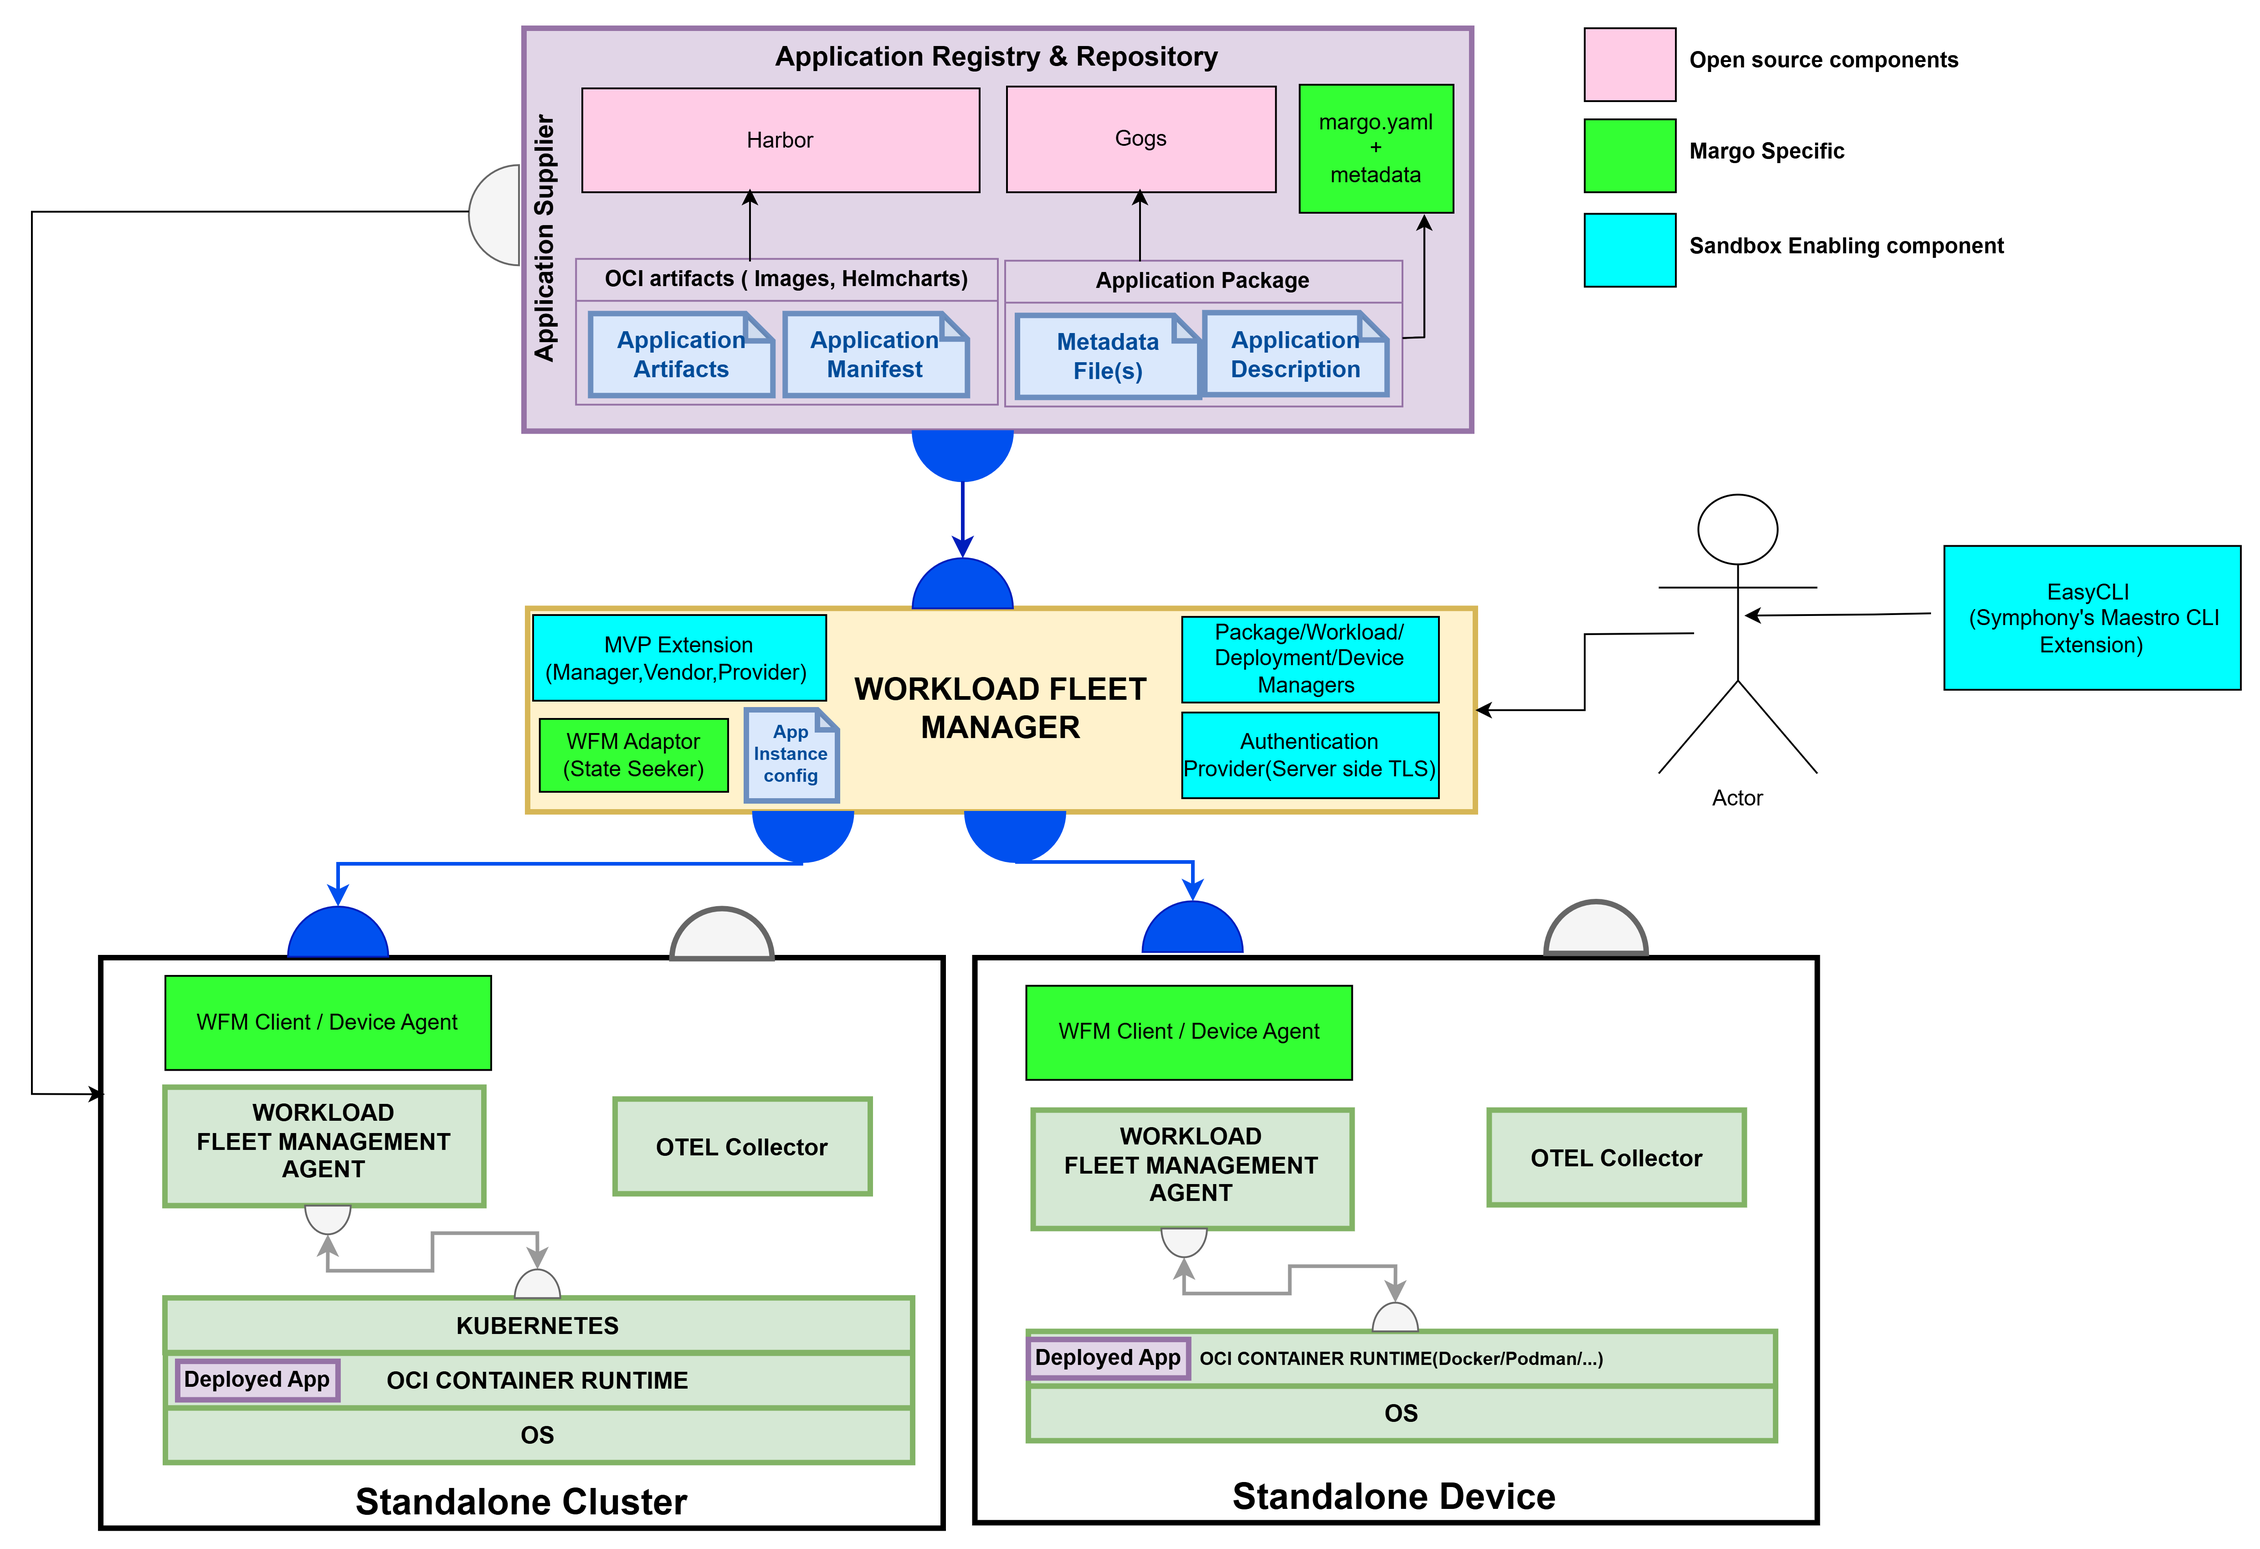
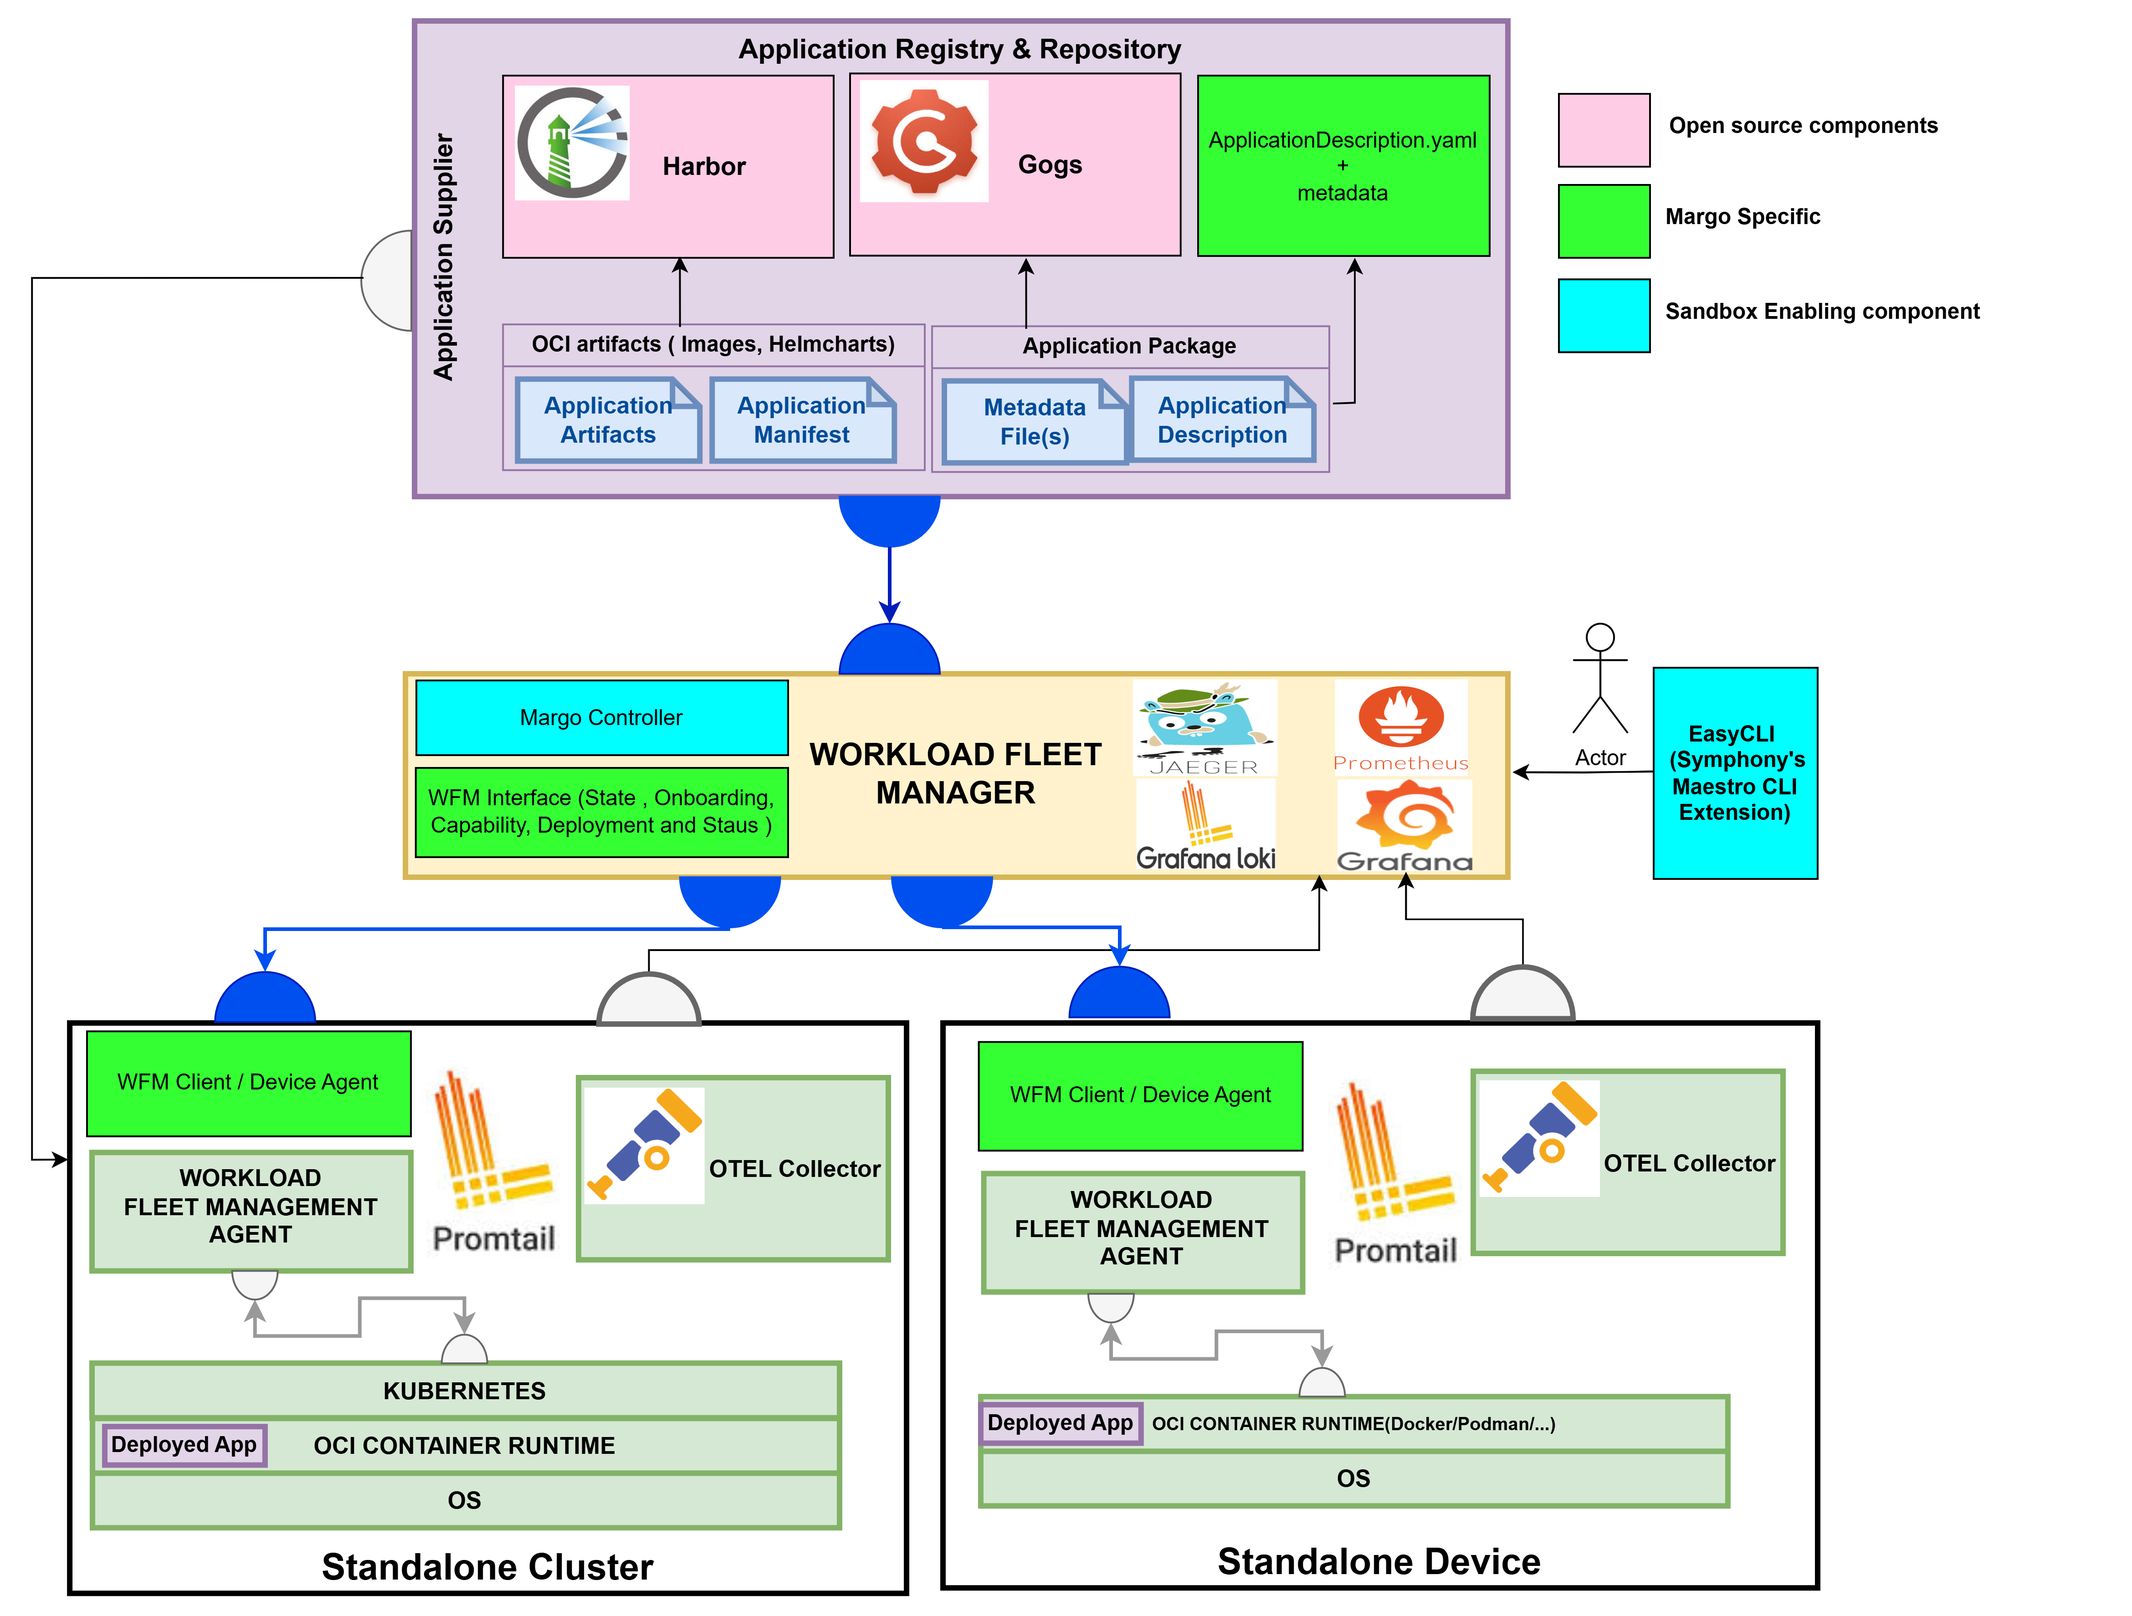
added TOC and modifed overlay architecture

diff --git a/README.md b/README.md
@@ -1,26 +1,50 @@
 # MARGO Project Documentation
 
-## 📘 Introduction
-Welcome to the MARGO project! The MARGO initiative defines mechanisms for interoperable orchestration at scale of edge applications/workloads and devices. It will deliver on the interoperability promise through an open standard, a reference implementation, and a comprehensive compliance testing toolkit.  MARGO unlocks barriers to innovation in complex multi-vendor environments and accelerates digital transformation for organizations of all sizes. More about MARGO [here](https://margo.org/).
+## Table of Contents
+- [📘 Introduction](#-introduction)
+- [🚀 Sandbox Quick Start](#-sandbox-quick-start)
+  - [🛠 Development Toolset](#-development-toolset)
+    - [🔧 How to Build](#-how-to-build)
+    - [🚚 How to Deploy](#-how-to-deploy)
+    - [▶ How to Run](#-how-to-run)
+- [🗂 Structure of the Repository](#-structure-of-the-repository)
+- [📦 3rd Party Components](#-3rd-party-components)
+- [🧠 Design and Mapping to MARGO Architecture](#-design-and-mapping-to-margo-architecture)
+  - [🎼 Symphony WFM](#-symphony-wfm)
+  - [📁 Repositories and Registry](#-repositories-and-registry)
+  - [📊 Telemetry and Monitoring](#-telemetry-and-monitoring)
+  - [🧩 MVP Pattern](#-mvp-pattern)
+- [🔐 HTTP/1.1 and API Security](#-http11-and-api-security)
+- [📝 Release Notes](#-release-notes)
+- [💬 Comments and Feedback](#-comments-and-feedback)
 
 ---
 
-## 🚀 Quick Start
-This section allows you to set up a 'Sandbox' environment for experimenting with the MARGO specifications and APIs. This includes instructions on the prerequisites, how to set up a build environment, creating a deployment on a set of virtual machines and running scenarios between the MARGO WFM and the Device-Agent using a simple CLI.  
+## 📘 Introduction
+Welcome to the MARGO project! The MARGO initiative defines mechanisms for interoperable orchestration at scale of edge applications/workloads and devices. It will deliver on the interoperability promise through an open standard, a reference implementation, and a comprehensive compliance testing toolkit. MARGO unlocks barriers to innovation in complex multi-vendor environments and accelerates digital transformation for organizations of all sizes. More about MARGO [here](https://margo.org/).
 
-### 🛠 Dev Toolset
-[Dev Toolset](./docs/dev-toolsets.md)  
+---
+
+## 🚀 Sandbox Quick Start
+This section allows you to set up a 'Sandbox' environment for experimenting with the MARGO specifications and APIs. This includes instructions on the prerequisites, how to set up a build environment, creating a deployment on a set of virtual machines and running scenarios between the MARGO WFM and the Device-Agent using a simple CLI.
+
+### 🛠 Development Toolset
+- [Development Toolset](./docs/dev-toolsets.md)
+
 #### 🔧 How to Build
-[Build Process](./docs/build.md)
+- [Build the Sandbox](./docs/build.md)
+
 #### 🚚 How to Deploy
-[Deployment](./docs/deploy.md)
+- [Deploy the Sandbox](./docs/deploy.md)
+
 #### ▶ How to Run
-[Running the Setup](./docs/run.md)
+- [Run the Sandbox](./docs/run.md)
 
 ---
 
 ## 🗂 Structure of the Repository
-The repository is divided into three main parts. More details on [Repo Structure](./docs/repo-structure.md):
+The repository is divided into three main parts. More details on [Repository Structure](./docs/repo-structure.md):
+
 - `shared-lib`: Reusable libraries and utilities (Open Source Components)
 - `standard`: Standard implementation components as per MARGO specification
 - `non-standard`: Sandbox enabling components, these are not defined by MARGO but required for reference implementation
@@ -36,58 +60,54 @@ The repository is divided into three main parts. More details on [Repo Structure
 ---
 
 ## 🧠 Design and Mapping to MARGO Architecture
-
 MARGO intends to create an open interoperability standard and ecosystem for the industrial edge, allowing edge compute devices, workloads, and fleet management software to be compatible and interoperable across manufacturers and software developers willing to adopt such standard.
 
-- MARGO envision the [Architecture](./docs/margo-architecture.png).
-- The reference implementation through this 'Sandbox' environment implements the key MARGO components as per [Overlay-Architecture](./docs/overlay-architecture.png).
+- MARGO envision the [Architecture](./docs/margo-architecture.png)
+- The reference implementation through this 'Sandbox' environment implements the key MARGO components as per [Overlay-Architecture](./docs/overlay-architecture.png)
 
+### 🎼 Symphony WFM
+- Sandbox uses Eclipse Symphony as Workload Fleet Manager
+- As mentioned in MARGO architecture and overlay architecture WFM connects through MARGO envisioned communication mechanisms
 
+### 📁 Repositories and Registry
+- Gogs and Harbor provide application registry and repository functionalities
+- Application supplier's packages are stored in Gogs and docker images/helm artifacts related to these applications are stored in Harbor registry
+- Application packages are pulled/pushed/deleted from Gogs repository whenever WFM performs application package LCM operation
+- The WFM Client/Device-agent pulls docker images/helm artifacts from Harbor whenever workloads are getting deployed corresponding to the application packages during instance deployment
 
-### Overlay Architecture as 'Code-first Sandbox' maps to the following components with respect to MARGO architecture
+### 📊 Telemetry and Monitoring
+- Sandbox deploys OpenTelemetry Collector at WFM client for instrumentation as per MARGO observability specification
+- OpenTelemetry Collector sends telemetry data to observability backends from WFM client. Promtail is also deployed on WFM client for logs aggregation. Promtail agent fetches and pushes logs to Loki on WFM
+- Observability backends should be external to WFM client. In Sandbox implementation, these backends are deployed on WFM. These include Prometheus, Jaeger, Loki and Grafana
+- Loki is deployed for log aggregation and Grafana dashboard for visualization
+- Jaeger is deployed for tracing
+- Prometheus is deployed for Metrics collection
 
-#### 🎼 Symphony WFM
-- Sandbox uses Eclipse Symphony as Workload Fleet Manager. 
-- As mentioned in MARGO architecture and overlay architecture WFM connects through MARGO envisioned communication mechanisms.
+### 🧩 MVP Pattern
+Eclipse Symphony is an open-source orchestration platform developed by the Eclipse Foundation to unify and manage complex workloads across diverse systems. In the context of Eclipse Symphony, MVP refers to a design pattern for building extensible systems, specifically a three-tiered architecture consisting of Managers, Vendors, and Providers.
 
-#### 📁 Repositories and registry
-- Gogs and Harbor provide application registry and repository functionalities.
-- Application supplier's packages are stored in Gogs and docker images/helm artifacts related to these applications are stored in Harbor registry.
-- Application packages are pulled/pushed/deleted from Gogs repository whenever WFM performs application package LCM operation. 
-- The WFM Client/Device-agent pulls docker images/helm artifacts from Harbor whenever workloads are getting deployed corresponding to the application packages during instance deployment.
+This pattern is often referred to as HB-MVP (Host-Bound MVP):
 
-#### 📊 Telemetry and Monitoring
-- Sandbox deploys OpenTelemetry Collector at WFM client for instrumentation as per MARGO observability specification.
-- OpenTelemetry Collector sends telemetry data to observability backends from WFM client. Promtail is also deployed on WFM client for logs aggregation. Promtail agent fetches and pushes logs to Loki on WFM.
-- Observability backends should be external to WFM client. In Sandbox implementation, these backends are deployed on WFM. These include Prometheus, Jaeger, Loki and Grafana.
-- Loki is deployed for log aggregation and Grafana dashboard for visualization.
-- Jaeger is deployed for tracing.
-- Prometheus is deployed for Metrics collection.
+- **Managers**: Implement business logic
+- **Vendors**: Facilitate interaction with other systems
+- **Providers**: Bridge the connection to external systems
 
-#### 🧩 MVP Pattern
-- Eclipse Symphony is an open-source orchestration platform developed by the Eclipse Foundation to unify and manage complex workloads across diverse systems. In the context of Eclipse Symphony, MVP refers to a design pattern for building extensible systems, specifically a three-tiered architecture consisting of Managers, Vendors, and Providers. 
-- This pattern is often referred to as HB-MVP (Host-Bound MVP).
-    **Managers**: Implement business logic.
-    **Vendors**: Facilitate interaction with other systems.
-    **Providers**: Bridge the connection to external systems. 
-
-##### Here's a breakdown of each component:
-
-- **Vendors**: Vendors offer capabilities, typically exposed through an API surface. They act as the entry point for interacting with a specific service or functionality. Ideally, vendors are protocol-agnostic, allowing them to be bound to various communication protocols (e.g., HTTP, gRPC, MQTT) as needed.
-- **Managers**: Managers implement the platform-agnostic business logic for a given capability. They receive requests from vendors and orchestrate the necessary actions, often by interacting with one or more providers. Managers are designed for reuse and encapsulate the core business logic.
-- **Providers**: Providers are responsible for interacting with specific external systems or dependencies. They abstract away the details of platform-specific interactions, containing any platform-specific knowledge within their scope. Managers utilize providers to perform actions on external resources.
+#### Here's a breakdown of each component:
+- **Vendors**: Vendors offer capabilities, typically exposed through an API surface. They act as the entry point for interacting with a specific service or functionality. Ideally, vendors are protocol-agnostic, allowing them to be bound to various communication protocols (e.g., HTTP, gRPC, MQTT) as needed
+- **Managers**: Managers implement the platform-agnostic business logic for a given capability. They receive requests from vendors and orchestrate the necessary actions, often by interacting with one or more providers. Managers are designed for reuse and encapsulate the core business logic
+- **Providers**: Providers are responsible for interacting with specific external systems or dependencies. They abstract away the details of platform-specific interactions, containing any platform-specific knowledge within their scope. Managers utilize providers to perform actions on external resources
 
 Sandbox uses MVP pattern to implement MARGO specification.
 
+---
 
-#### 🔐 HTTP/1.1 and API Security
-- Sandbox utilizes HTTP/1.1 to ensure maximum support for existing infrastructure.
-- Server-side TLS is utilized instead of mTLS due to potential issues with TLS- terminating HTTPS load-balancer or a HTTPS proxies doing lawful inspection. 
-- Use of X.509 certificates to represent both parties within the REST API construction. These certificates are utilized to prove each participant's identity, establish a secure TLS session, and securely transport information within secure envelopes. Supports client authentication using X.509 certificates conforming to RFC 5280. 
-- The device establishes a secure HTTPS connection using server-side TLS. It validates the server's identity using the public root CA certificate. By utilizing the certificates to create payload envelopes (HTTP request body), the device's management client can ensure secure transport between the device's management client and the Workload Fleet Management web service.
+## 🔐 HTTP/1.1 and API Security
+- Sandbox utilizes HTTP/1.1 to ensure maximum support for existing infrastructure
+- Server-side TLS is utilized instead of mTLS due to potential issues with TLS-terminating HTTPS load-balancer or HTTPS proxies doing lawful inspection
+- Use of X.509 certificates to represent both parties within the REST API construction. These certificates are utilized to prove each participant's identity, establish a secure TLS session, and securely transport information within secure envelopes. Supports client authentication using X.509 certificates conforming to RFC 5280
+- The device establishes a secure HTTPS connection using server-side TLS. It validates the server's identity using the public root CA certificate. By utilizing the certificates to create payload envelopes (HTTP request body), the device's management client can ensure secure transport between the device's management client and the Workload Fleet Management web service
 - For API security, server side TLS 1.3 (minimum) is used, where the keys are obtained from the Server's X.509 Certificate as defined in the standard HTTP over TLS
-- For API integrity, the device's management client is issued a client-specific X.509 certificate.
-The issuer of the client X.509 certificate is trusted under the assumption that the root CA download to the Workload Fleet Management server occurs as a precondition to onboarding the devices.
+- For API integrity, the device's management client is issued a client-specific X.509 certificate. The issuer of the client X.509 certificate is trusted under the assumption that the root CA download to the Workload Fleet Management server occurs as a precondition to onboarding the devices
 
 ---
 
